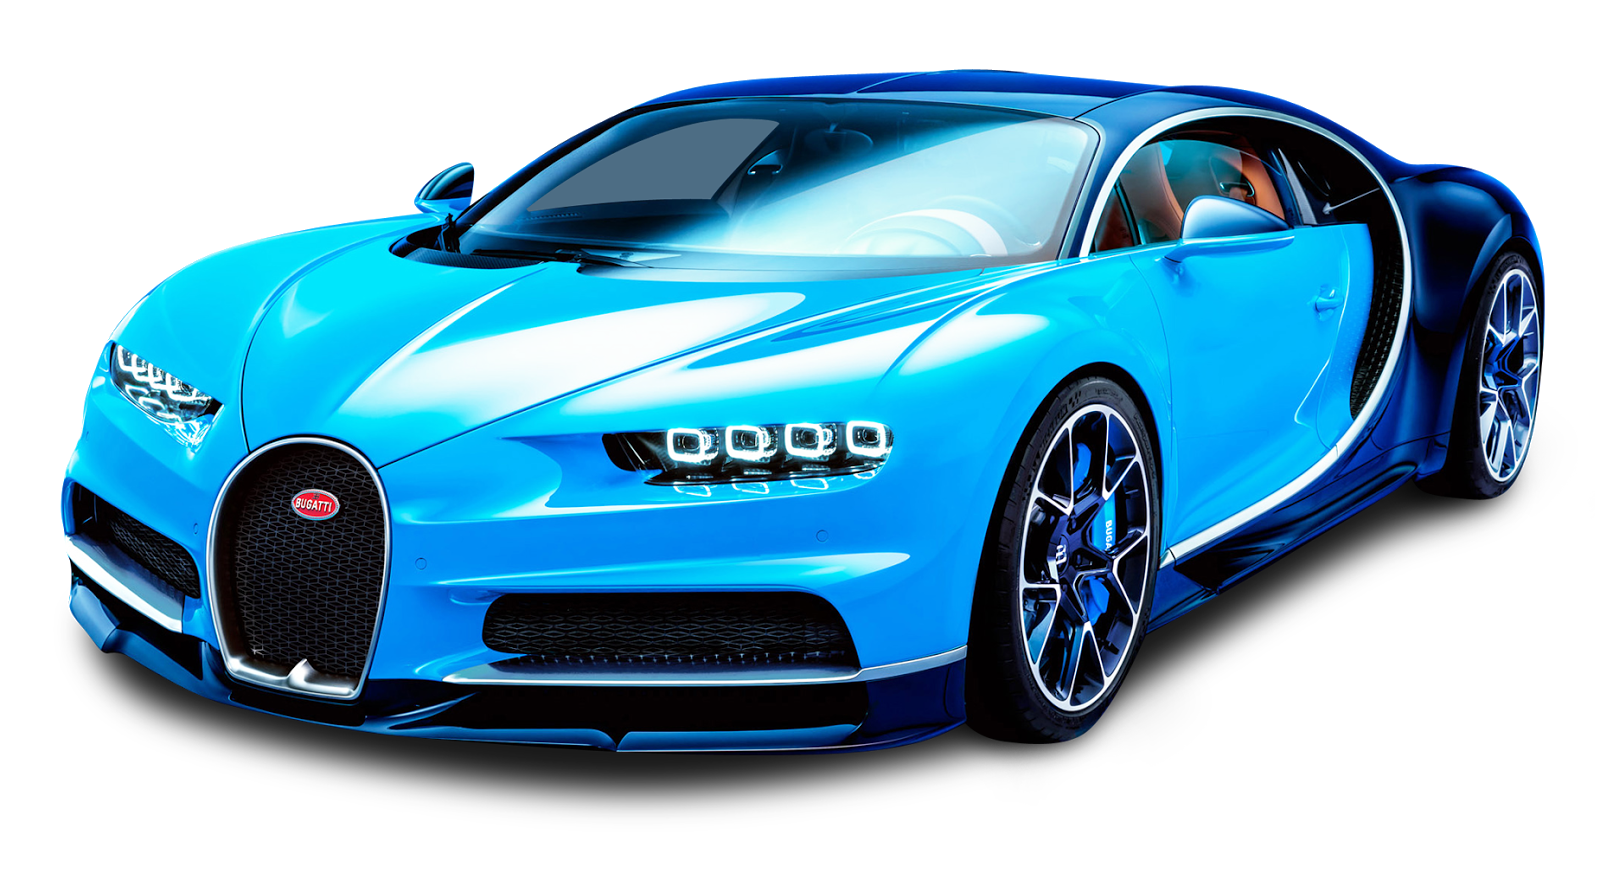
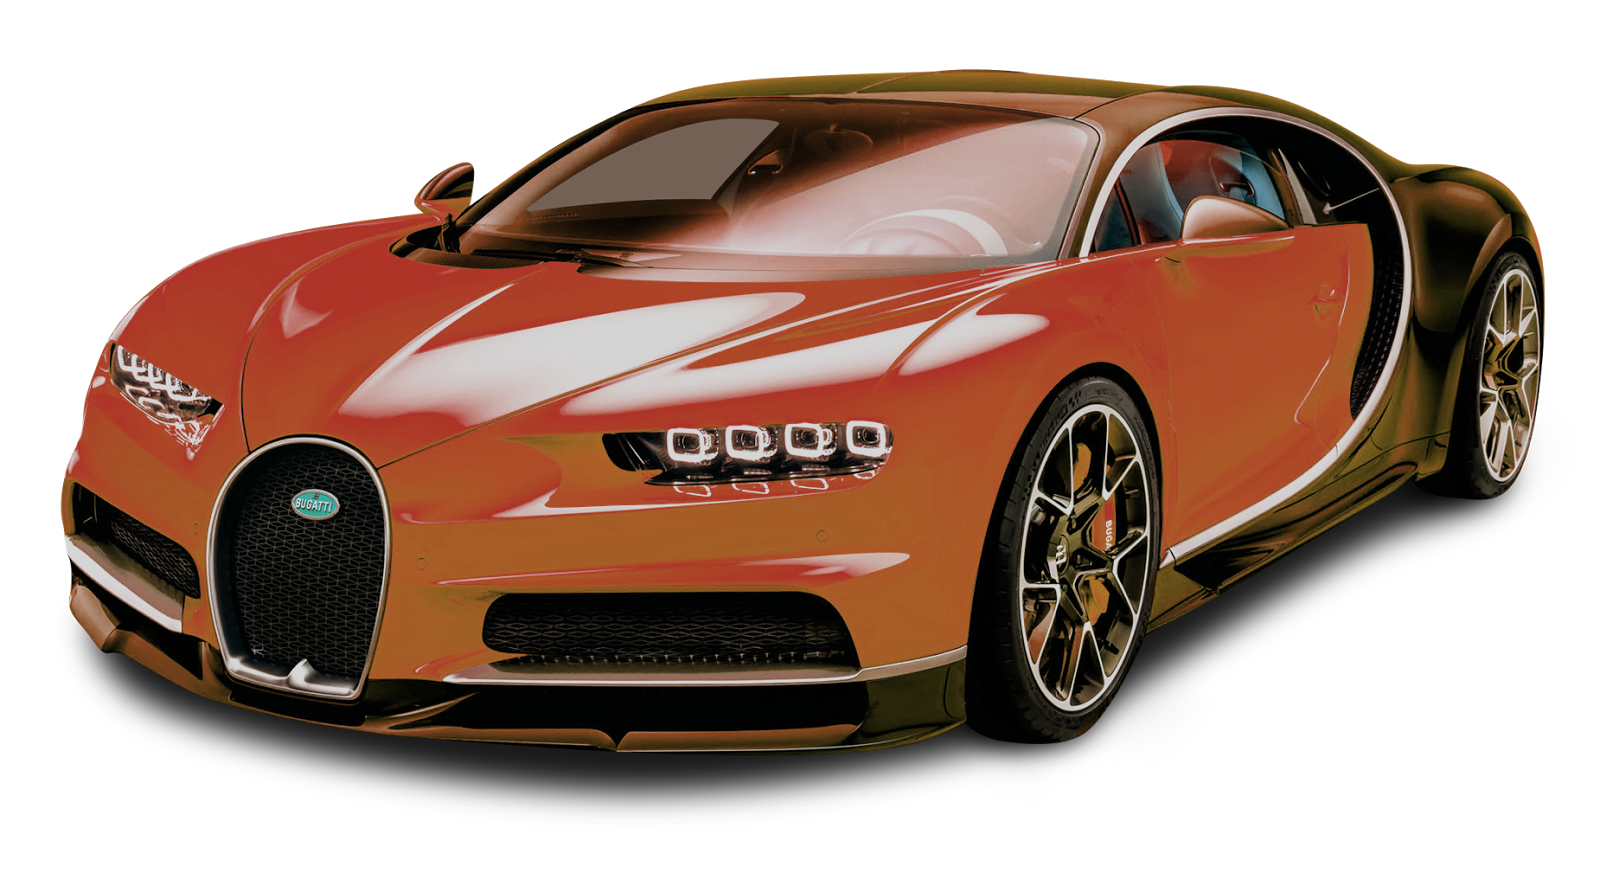
new car in menu

diff --git a/menu/css/style.sass b/menu/css/style.sass
@@ -528,12 +528,13 @@ html
         height: 100%
 
 .iconcar
-    width: 25vw
+    position: relative
+    top: 1vh
+    left: 2vw
     img
         // filter: drop-shadow(12px 12px 10px #00000080)
-        height: 100%
-        width: 100%
-        // width: 30vw
+        height: auto
+        width: 31vw
 
 .textticket
     color: white
@@ -1555,7 +1556,7 @@ a:hover
 
 .maindonat
     width: 65%
-    height: 60%
+    height: 63%
     display: flex
     flex-direction: row
     justify-content: space-between

diff --git a/menu/menu.html b/menu/menu.html
@@ -99,7 +99,7 @@
                                         <span class="textcar3">{{i18n.control}}</span>
                                     </div>
                                     <div class="iconcar">
-                                        <img src="./img/lamb.png" id="mouseFocus" alt="">
+                                        <img src="./img/tesla.png" id="mouseFocus" alt="">
                                     </div>
                                 </div>
                             </div>

diff --git a/menu/css/style.css b/menu/css/style.css
@@ -769,12 +769,14 @@ html {
 }
 
 .iconcar {
-  width: 25vw;
+  position: relative;
+  top: 1vh;
+  left: 2vw;
 }
 
 .iconcar img {
-  height: 100%;
-  width: 100%;
+  height: auto;
+  width: 31vw;
 }
 
 .textticket {
@@ -2268,7 +2270,7 @@ a:hover {
 
 .maindonat {
   width: 65%;
-  height: 60%;
+  height: 63%;
   display: -webkit-box;
   display: -ms-flexbox;
   display: flex;
